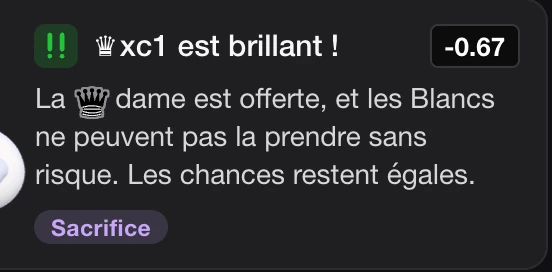
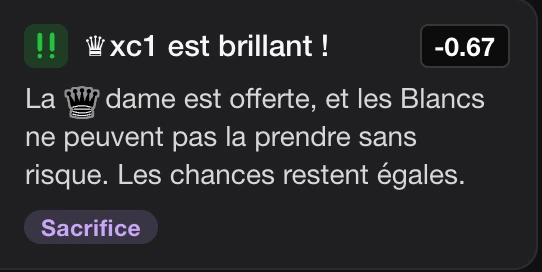
Show the dino in the Debrief shot, and crop its card clear of the coach

diff --git a/store/templates/2-debrief.html b/store/templates/2-debrief.html
@@ -40,8 +40,8 @@
 
   .comment {
     top: 588px;
-    left: 806px;
-    width: 414px;
+    left: 812px;
+    width: 406px;
     transform: rotate(-2deg);
   }
 
